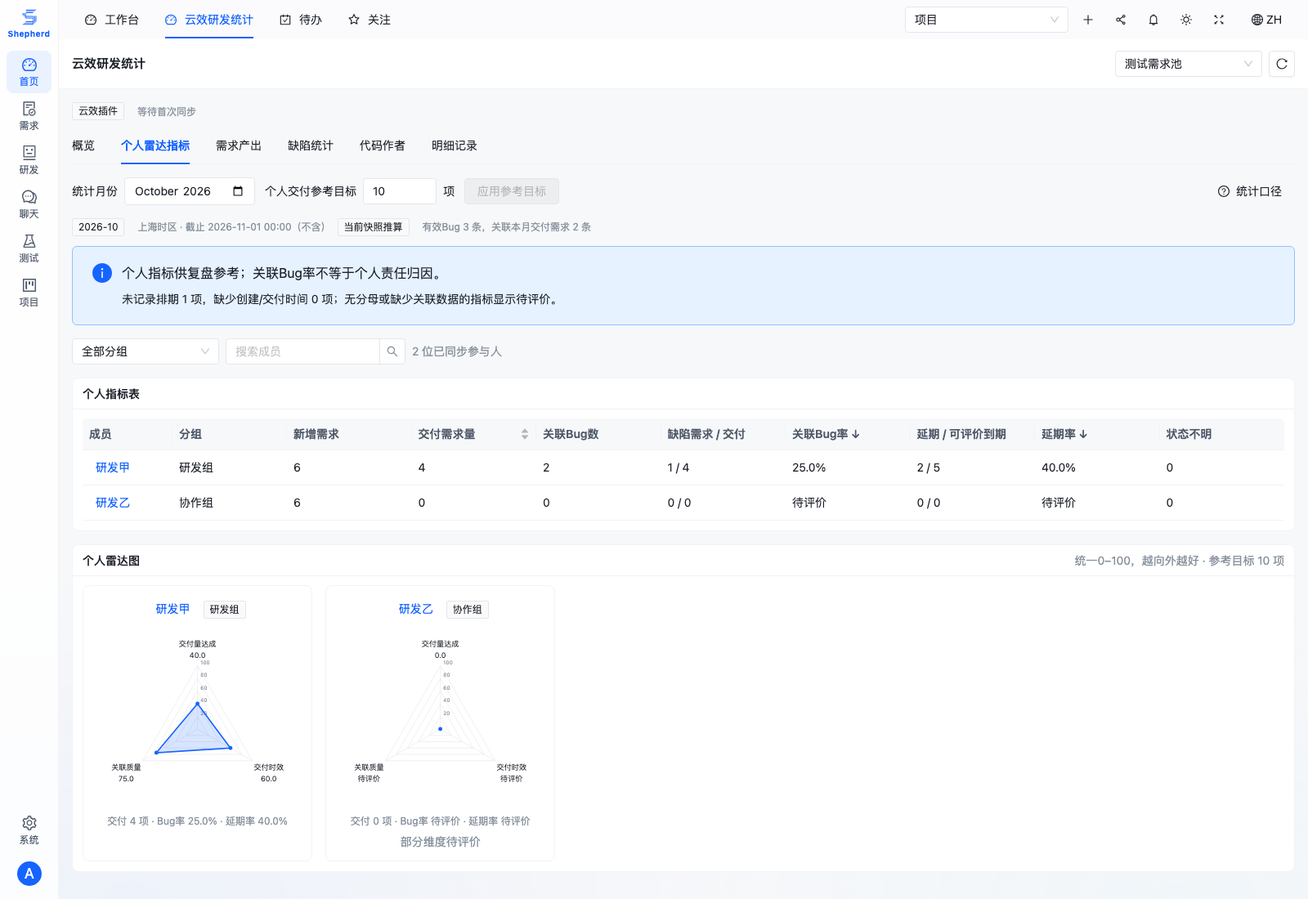
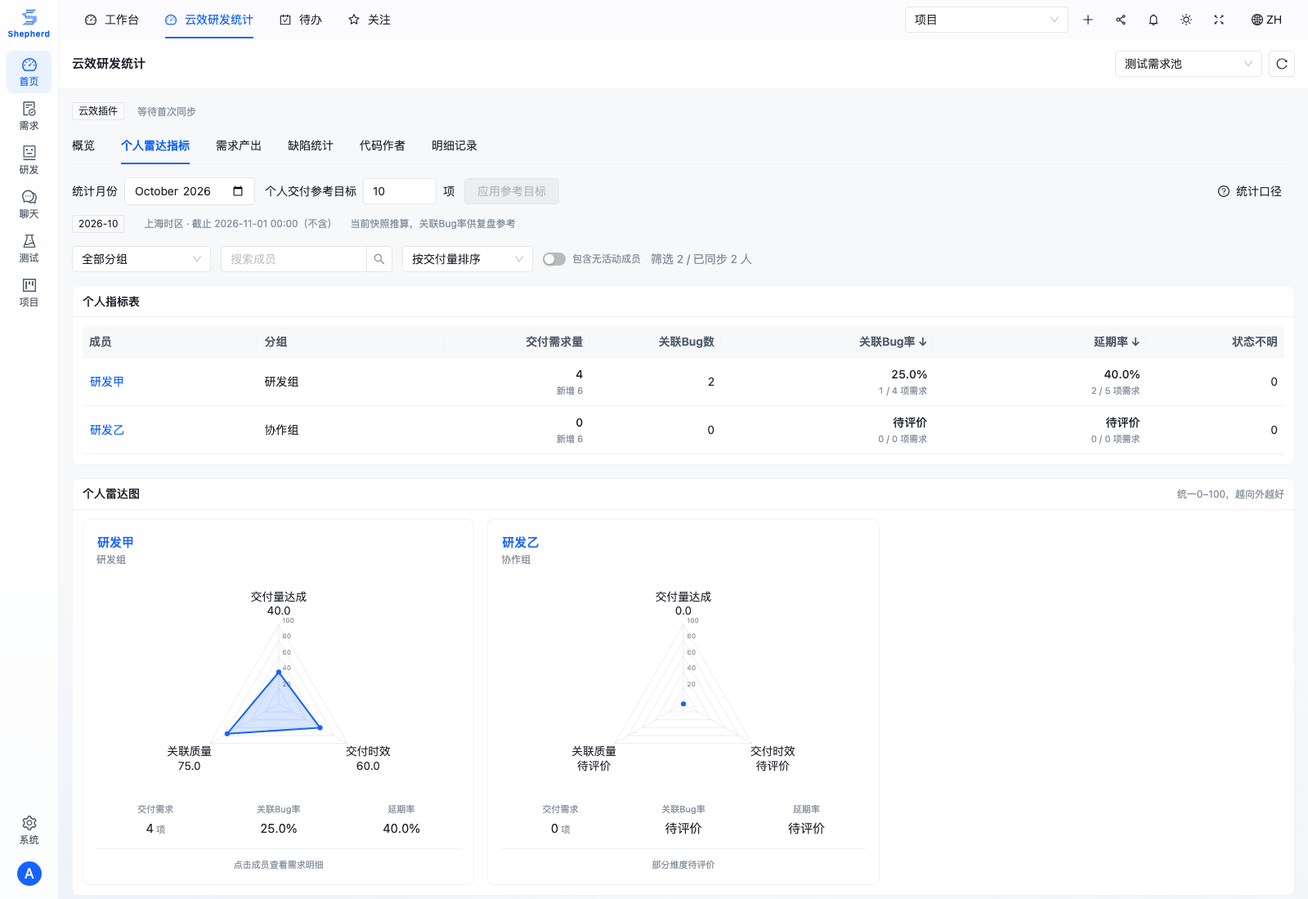
fix(yunxiao): validate member references and contain radar layouts

diff --git a/web/src/plugins/yunxiao/MemberMetrics.tsx b/web/src/plugins/yunxiao/MemberMetrics.tsx
@@ -1,5 +1,5 @@
 import { useEffect, useState } from 'react'
-import { Alert, Button, Card, Drawer, Empty, Input, InputNumber, Popover, Select, Space, Spin, Table, Tag, Typography } from 'antd'
+import { Alert, Button, Card, Drawer, Empty, Input, InputNumber, Popover, Select, Space, Spin, Table, Tag, Typography, Tooltip, Pagination, Switch } from 'antd'
 import { QuestionCircleOutlined } from '@ant-design/icons'
 import { useNavigate } from 'react-router-dom'
 import { ApiError } from '../../api'
@@ -30,17 +30,26 @@ function Radar({ member }: { member: MemberMetric }) {
   </svg>
 }
 const classes: Record<string,string> = { notDue:'不在本月到期范围',onTime:'按期交付',deliveredLate:'延期交付',overdueAtEnd:'月底未交付',unknown:'状态不明' }
+function MemberName({ name, onClick }: { name:string; onClick:() => void }) {
+  return <Tooltip title={name}><Button type="link" size="small" className="yx-member-name" aria-label={name} onClick={onClick}><span>{name}</span></Button></Tooltip>
+}
+function RateValue({ value, numerator, denominator, label }: { value:number | null; numerator:number; denominator:number; label:string }) {
+  return <Tooltip title={`${label}：${numerator} / ${denominator}；${value == null ? '缺少有效分母或关联数据，暂不评价' : '按需求去重'}`}>
+    <div className="yx-member-number"><strong>{percent(value)}</strong><small>{numerator} / {denominator} 项需求</small></div>
+  </Tooltip>
+}
 export default function MemberMetrics({ sourceId,revision }: { sourceId:string; revision:number }) {
   const navigate = useNavigate()
   const [month,setMonth] = useState(() => new URLSearchParams(window.location.search).get('month') || previousMonth())
   const [target,setTarget] = useState(10),[draftTarget,setDraftTarget] = useState<number | null>(10)
-  const [group,setGroup] = useState(''),[search,setSearch] = useState('')
+  const [group,setGroup] = useState(''),[search,setSearch] = useState(''),[sort,setSort] = useState('delivered')
+  const [includeInactive,setIncludeInactive] = useState(false)
   const [data,setData] = useState<MemberMetricsData | null>(null),[loading,setLoading] = useState(false),[error,setError] = useState('')
-  const [selected,setSelected] = useState<MemberMetric | null>(null),[radarPage,setRadarPage] = useState(1)
+  const [selected,setSelected] = useState<MemberMetric | null>(null),[memberPage,setMemberPage] = useState(1),[pageSize,setPageSize] = useState(6)
   useEffect(() => {
     if (!/^\d{4}-\d{2}$/.test(month)) return
     let live = true
-    setData(null);setError('');setLoading(true);setSelected(null);setRadarPage(1)
+    setData(null);setError('');setLoading(true);setSelected(null);setMemberPage(1)
     devopsApi.memberMetrics(sourceId,month,target).then(value => { if (live) setData(value) })
       .catch(e => { if (live) setError(e instanceof ApiError && e.status === 403 ? '需要项目、需求和缺陷的读取权限。' : String(e.message || e)) })
       .finally(() => { if (live) setLoading(false) })
@@ -49,56 +58,67 @@ export default function MemberMetrics({ sourceId,revision }: { sourceId:string; 
   const metrics = data?.metrics
   const groups = Array.from(new Set(metrics?.members.map(p => p.group) || [])).sort()
   const activeGroup = groups.includes(group) ? group : ''
-  const rows = (metrics?.members || []).filter(p => (!activeGroup || p.group === activeGroup) && p.name.toLocaleLowerCase().includes(search.toLocaleLowerCase()))
+  const rows = (metrics?.members || []).filter(p => (!activeGroup || p.group === activeGroup) && p.name.toLocaleLowerCase().includes(search.toLocaleLowerCase()) && (includeInactive || p.newRequirements+p.deliveredRequirements+p.dueRequirements > 0))
+    .sort((a,b) => (sort === 'delivered' ? b.deliveredRequirements-a.deliveredRequirements || b.newRequirements-a.newRequirements : 0) || a.name.localeCompare(b.name,'zh-CN'))
+  const currentPage = Math.min(memberPage,Math.max(1,Math.ceil(rows.length/pageSize)))
+  const pageRows = rows.slice((currentPage-1)*pageSize,currentPage*pageSize)
   const targetValid = draftTarget != null && Number.isFinite(draftTarget) && draftTarget > 0 && draftTarget <= 10000
-  return <section aria-label="个人月度雷达指标">
+  const pagination = (label:string) => rows.length > pageSize ? <nav className="yx-member-pagination" aria-label={label}><Pagination size="small" current={currentPage} pageSize={pageSize} total={rows.length} showSizeChanger locale={{ items_per_page:'人 / 页' }} pageSizeOptions={[6,12]} showTotal={total => `共 ${total} 人，表格与雷达图同步翻页`} onChange={(page,size) => { setMemberPage(size === pageSize ? page : 1);setPageSize(size) }} /></nav> : null
+  return <section aria-label="个人月度雷达指标" className="yx-member-page">
     <div className="yx-member-toolbar"><Space wrap size={12}>
       <label>统计月份 <Input aria-label="统计月份" type="month" value={month} style={{ width:160 }} onChange={e => { if (e.target.value) setMonth(e.target.value) }} /></label>
       <label>个人交付参考目标 <InputNumber aria-label="个人交付参考目标" value={draftTarget} min={0.1} max={10000} onChange={setDraftTarget} /> 项</label>
       <Button disabled={!targetValid || draftTarget === target} onClick={() => { if (targetValid) setTarget(draftTarget!) }}>应用参考目标</Button>
     </Space><Popover trigger="click" title="个人指标统计口径" content={<div className="yx-member-notes">
-      <p>需求量按本月已发布需求，归当前负责人及明确登记的开发、测试、协作等参与人；多人分别计一次，不能通过成员数求组总量。未确认角色的旁观者不计入。</p>
-      <p>关联Bug率=本月已交付需求中，本月存在有效关联Bug的需求数/本月交付需求数。按同一源的明确父需求或关联记录识别；取消、重复及误报等状态排除。关联表示参与需求的缺陷情况，不代表个人责任认定。</p>
+      <p>需求量按本月已发布需求，归当前负责人及明确登记的开发、测试、协作等参与人；仅识别带用户标识的人员类型字段，自由文本不作为成员。多人分别计一次，不能通过成员数求组总量。</p>
+      <p>关联Bug率=本月已交付需求中，本月存在有效关联Bug的需求数/本月交付需求数。按同一源的明确父需求或关联记录识别；取消、重复及误报等状态排除。参与需求的缺陷情况不代表个人责任认定。</p>
       <p>延期率=(延期交付+月底未交付)/(本月应交付-状态不明)。包含全部优先级，取最早排期日当天结束；无有效分母时待评价。本月未结束时以采集时点为截点，仅纳入已经到期的需求。</p>
-      <p>雷达三轴：交付量=min(已交付/参考目标,1)×100；关联质量=100-Bug率；交付时效=100-延期率。缺失维度只显示已知点，不填满多边形；参考目标仅调整展示尺度，不产生综合OKR分。</p>
-      <p>历史月份由当前快照推算，无法还原排期、负责人修改或重开；截点后变更的非发布状态与缺少状态时间的到期需求列为不明。分组使用已同步的明确映射，有冲突或未知时列为待归属。</p>
+      <p>雷达三轴：交付量=min(已交付/参考目标,1)×100；关联质量=100-Bug率；交付时效=100-延期率。缺失维度只显示已知点；参考目标仅调整展示尺度，不产生综合OKR分。</p>
+      <p>历史月份由当前快照推算，无法还原排期、负责人修改或重开；截点后变更的非发布状态与缺少状态时间的到期需求列为不明。分组冲突或未知时列为待归属；可开启“包含无活动成员”查看本月无记录的已同步参与人。</p>
+      {metrics && <p>有效Bug {metrics.newValidBugs} 条，其中关联本月交付需求 {metrics.linkedValidBugs} 条；未记录排期 {metrics.requirementsMissingDue} 项，缺少创建/交付时间 {metrics.requirementsMissingTime} 项。</p>}
     </div>}><Button type="text" icon={<QuestionCircleOutlined />}>统计口径</Button></Popover></div>
     {error && <Alert type="error" message="个人指标读取失败" description={error} showIcon />}
     <Spin spinning={loading}>
+      <div className="yx-member-results">
       {metrics && <>
-        <div className="yx-member-scope"><Tag>{metrics.month}</Tag><span>上海时区 · 截止 {metrics.endExclusive.replace('T',' ').slice(0,16)}（不含）</span><Tag>当前快照推算</Tag><span>有效Bug {metrics.newValidBugs} 条，关联本月交付需求 {metrics.linkedValidBugs} 条</span></div>
-        <Alert type="info" showIcon message="个人指标供复盘参考；关联Bug率不等于个人责任归因。" description={`未记录排期 ${metrics.requirementsMissingDue} 项，缺少创建/交付时间 ${metrics.requirementsMissingTime} 项；无分母或缺少关联数据的指标显示待评价。`} style={{ marginBottom:16 }} />
-        <Space wrap style={{ marginBottom:16 }}>
-          <Select aria-label="雷达组织分组" style={{ minWidth:180 }} value={activeGroup} onChange={v => { setGroup(v);setRadarPage(1) }} options={[{ value:'',label:'全部分组' },...groups.map(value => ({ value,label:value }))]} />
-          <Input.Search aria-label="筛选雷达成员" placeholder="搜索成员" allowClear style={{ width:220 }} onChange={e => { setSearch(e.target.value);setRadarPage(1) }} />
-          <Typography.Text type="secondary">{rows.length} 位已同步参与人</Typography.Text>
-        </Space>
-        <Card size="small" title="个人指标表" style={{ marginBottom:16 }}><Table<MemberMetric> size="small" rowKey="name" dataSource={rows} scroll={{ x:1150 }} pagination={{ pageSize:10,hideOnSinglePage:true }} columns={[
-          { title:'成员',dataIndex:'name',fixed:'left',width:110,render:(name:string,p) => <Button type="link" size="small" onClick={() => setSelected(p)}>{name}</Button> },
-          { title:'分组',dataIndex:'group',width:140 },{ title:'新增需求',dataIndex:'newRequirements' },
-          { title:'交付需求量',dataIndex:'deliveredRequirements',sorter:(a,b) => a.deliveredRequirements-b.deliveredRequirements },{ title:'关联Bug数',dataIndex:'linkedBugs' },
-          { title:'缺陷需求 / 交付',render:(_:unknown,p) => `${p.bugAffectedRequirements} / ${p.deliveredRequirements}` },{ title:'关联Bug率 ↓',dataIndex:'bugRate',render:percent },
-          { title:'延期 / 可评价到期',render:(_:unknown,p) => `${p.deliveredLate+p.overdueAtEnd} / ${p.dueRequirements-p.unknownDelivery}` },
-          { title:'延期率 ↓',dataIndex:'delayRate',render:percent },{ title:'状态不明',dataIndex:'unknownDelivery' },
-        ]} /></Card>
-        <Card size="small" title="个人雷达图" extra={<Typography.Text type="secondary">统一0–100，越向外越好 · 参考目标 {metrics.requirementTarget} 项</Typography.Text>}>
-          {!rows.length ? <Empty description="没有符合条件的已同步参与人" /> : <>
-            <div className="yx-member-radars">{rows.slice((radarPage-1)*12,radarPage*12).map(p => <article className="yx-member-radar-card" key={p.name} aria-label={`${p.name}指标卡`}>
-              <Button type="link" onClick={() => setSelected(p)}>{p.name}</Button><Tag>{p.group}</Tag><Radar member={p} />
-              <p>交付 {p.deliveredRequirements} 项 · Bug率 {percent(p.bugRate)} · 延期率 {percent(p.delayRate)}</p>
-              {p.radar.some(value => value == null) && <Typography.Text type="secondary">部分维度待评价</Typography.Text>}
-            </article>)}</div>
-            {rows.length > 12 && <Space className="yx-member-pagination"><Button disabled={radarPage === 1} onClick={() => setRadarPage(p => p-1)}>上一页</Button><span>{radarPage} / {Math.ceil(rows.length/12)}</span><Button disabled={radarPage*12 >= rows.length} onClick={() => setRadarPage(p => p+1)}>下一页</Button></Space>}
-          </>}
+        <div className="yx-member-scope"><Tag>{metrics.month}</Tag><span>上海时区 · 截止 {metrics.endExclusive.replace('T',' ').slice(0,16)}（不含）</span><span>当前快照推算，关联Bug率供复盘参考</span></div>
+        <div className="yx-member-filters">
+          <Select aria-label="雷达组织分组" style={{ width:170 }} value={activeGroup} onChange={v => { setGroup(v);setMemberPage(1) }} options={[{ value:'',label:'全部分组' },...groups.map(value => ({ value,label:value }))]} />
+          <Input.Search aria-label="筛选雷达成员" placeholder="搜索成员" allowClear style={{ width:210 }} onChange={e => { setSearch(e.target.value);setMemberPage(1) }} />
+          <Select aria-label="成员排序" style={{ width:160 }} value={sort} onChange={v => { setSort(v);setMemberPage(1) }} options={[{ value:'delivered',label:'按交付量排序' },{ value:'name',label:'按姓名排序' }]} />
+          <label className="yx-member-inactive"><Switch size="small" aria-label="包含无活动成员" checked={includeInactive} onChange={v => { setIncludeInactive(v);setMemberPage(1) }} />包含无活动成员</label>
+          <Typography.Text type="secondary">筛选 {rows.length} / 已同步 {metrics.members.length} 人</Typography.Text>
+        </div>
+        <Card size="small" title="个人指标表" className="yx-members-table">
+          <Table<MemberMetric> size="small" tableLayout="fixed" rowKey="name" dataSource={pageRows} scroll={{ x:960 }} pagination={false} columns={[
+            { title:'成员',dataIndex:'name',fixed:'left',width:140,ellipsis:true,render:(name:string,p) => <MemberName name={name} onClick={() => setSelected(p)} /> },
+            { title:'分组',dataIndex:'group',width:150,ellipsis:true },
+            { title:'交付需求量',dataIndex:'deliveredRequirements',width:115,align:'right',render:(v:number,p) => <div className="yx-member-number"><strong>{v.toLocaleString('zh-CN')}</strong><small>新增 {p.newRequirements.toLocaleString('zh-CN')}</small></div> },
+            { title:'关联Bug数',dataIndex:'linkedBugs',width:105,align:'right' },
+            { title:'关联Bug率 ↓',width:170,align:'right',render:(_:unknown,p) => <RateValue label="关联Bug率" value={p.bugRate} numerator={p.bugAffectedRequirements} denominator={p.deliveredRequirements} /> },
+            { title:'延期率 ↓',width:170,align:'right',render:(_:unknown,p) => <RateValue label="延期率" value={p.delayRate} numerator={p.deliveredLate+p.overdueAtEnd} denominator={p.dueRequirements-p.unknownDelivery} /> },
+            { title:'状态不明',dataIndex:'unknownDelivery',width:110,align:'right' },
+          ]} />
         </Card>
+        {pagination('成员统一分页')}
+        <Card size="small" title="个人雷达图" className="yx-members-charts" extra={<span className="yx-member-chart-guide">统一0–100，越向外越好</span>}>
+          {!pageRows.length ? <Empty description="没有符合条件的成员，可调整筛选条件" /> : <div className="yx-member-radars">{pageRows.map(p => <article className="yx-member-radar-card" key={p.name} aria-label={`${p.name}指标卡`}>
+            <div className="yx-member-card-heading"><MemberName name={p.name} onClick={() => setSelected(p)} /><Tooltip title={p.group}><span className="yx-member-card-group">{p.group}</span></Tooltip></div>
+            <Radar member={p} />
+            <dl className="yx-member-card-metrics"><div><dt>交付需求</dt><dd>{p.deliveredRequirements.toLocaleString('zh-CN')}<small> 项</small></dd></div><div><dt>关联Bug率</dt><dd>{percent(p.bugRate)}</dd></div><div><dt>延期率</dt><dd>{percent(p.delayRate)}</dd></div></dl>
+            <div className="yx-member-card-footer">{p.radar.some(value => value == null) ? '部分维度待评价' : '点击成员查看需求明细'}</div>
+          </article>)}</div>}
+        </Card>
+        {pagination('雷达图分页')}
       </>}
       {!metrics && !loading && !error && <Empty description="请选择统计月份" />}
+      </div>
     </Spin>
-    <Drawer open={!!selected} title={`${selected?.name || ''} · 月度需求明细`} width="min(1100px, 95vw)" onClose={() => setSelected(null)}>
-      <Table<MemberRequirementMetric> size="small" rowKey="externalId" dataSource={selected?.requirements || []} scroll={{ x:800 }} pagination={{ pageSize:15 }} columns={[
-        { title:'需求',render:(_:unknown,r) => <Button type="link" size="small" onClick={() => navigate(`/devops?${new URLSearchParams({ source:sourceId,reference:r.externalId })}`)}>{r.serial || r.externalId} {r.title}</Button> },
-        { title:'当前状态',dataIndex:'status' },{ title:'截止日期',dataIndex:'due',render:(v:string) => v || '未记录' },{ title:'本月交付',dataIndex:'delivered',render:(v:boolean) => v ? '是' : '否' },
-        { title:'交付分类',dataIndex:'deliveryClass',render:(v:string) => classes[v] || v },{ title:'本月有效关联Bug',dataIndex:'bugIds',render:(v:string[]) => v.length },
+    <Drawer open={!!selected} title={<Tooltip title={selected?.name}><span className="yx-member-drawer-title">{selected?.name || ''} · 月度需求明细</span></Tooltip>} width="min(1100px, 95vw)" onClose={() => setSelected(null)}>
+      <Table<MemberRequirementMetric> size="small" tableLayout="fixed" rowKey="externalId" dataSource={selected?.requirements || []} scroll={{ x:860 }} pagination={{ pageSize:15 }} columns={[
+        { title:'需求',width:330,ellipsis:true,render:(_:unknown,r) => <MemberName name={`${r.serial || r.externalId} ${r.title}`} onClick={() => navigate(`/devops?${new URLSearchParams({ source:sourceId,reference:r.externalId })}`)} /> },
+        { title:'当前状态',dataIndex:'status',width:100,ellipsis:true },{ title:'截止日期',dataIndex:'due',width:110,render:(v:string) => v || '未记录' },{ title:'本月交付',dataIndex:'delivered',width:90,render:(v:boolean) => v ? '是' : '否' },
+        { title:'交付分类',dataIndex:'deliveryClass',width:120,render:(v:string) => classes[v] || v },{ title:'本月关联Bug',dataIndex:'bugIds',width:110,align:'right',render:(v:string[]) => v.length },
       ]} />
     </Drawer>
   </section>

diff --git a/web/e2e/member-metrics.spec.ts b/web/e2e/member-metrics.spec.ts
@@ -32,8 +32,8 @@ test('monthly table and filled radars preserve raw rates, sample sizes and missi
   await page.goto('/devops?view=radar&month=2026-10')
   const panel=page.getByRole('region',{ name:'个人月度雷达指标' })
   await expect(panel.getByRole('columnheader',{ name:'关联Bug率 ↓',exact:true })).toBeVisible()
-  await expect(panel.getByRole('cell',{ name:'25.0%',exact:true })).toBeVisible()
-  await expect(panel.getByRole('cell',{ name:'1 / 4',exact:true })).toBeVisible()
+  await expect(panel.getByText('25.0%',{exact:true}).first()).toBeVisible()
+  await expect(panel.getByText('1 / 4 项需求',{exact:true})).toBeVisible()
   await expect(panel.getByRole('img',{ name:'研发甲个人雷达图' })).toBeVisible()
   await expect(panel.getByRole('img',{ name:'研发甲个人雷达图' }).locator('.yx-radar-value')).toHaveCount(1)
   await expect(panel.getByRole('img',{ name:'研发乙个人雷达图' }).locator('.yx-radar-value')).toHaveCount(0)
@@ -56,7 +56,7 @@ test('month, group, target and source controls do not retain old results',async 
   await panel.getByRole('button',{ name:'应用参考目标' }).click()
   await expect.poll(() => calls.at(-1)?.searchParams.get('requirementTarget')).toBe('20')
   await panel.getByLabel('雷达组织分组').first().click()
-  await page.getByTitle('协作组',{ exact:true }).click()
+  await page.locator('.ant-select-dropdown').getByTitle('协作组',{ exact:true }).click()
   await expect(panel.getByRole('img',{ name:'研发甲个人雷达图' })).toHaveCount(0)
   await expect(panel.getByRole('img',{ name:'研发乙个人雷达图' })).toBeVisible()
   await page.getByLabel('云效项目').first().click()
@@ -84,3 +84,51 @@ test('radars follow dark theme and fit a narrow viewport',async ({ page }) => {
   expect(await chart.locator('.yx-radar-value').evaluate(el => getComputedStyle(el).fill)).not.toBe('none')
   await chart.screenshot({ path:'/tmp/shepherd-member-radar-dark.png',animations:'disabled' })
 })
+
+for (const width of [1765,700,390]) {
+  test(`long member and group text stay contained at ${width}px; table and cards page together`,async ({ page }) => {
+    await fixture(page)
+    await page.setViewportSize({ width,height:1100 })
+    const longName='很长的合法成员显示名称'.repeat(15)
+    const longGroup='很长的分组名称'.repeat(12)
+    const members=Array.from({ length:14 },(_,i) => ({ ...alice,name:`${String(i).padStart(2,'0')}${longName}`,group:longGroup,requirements:[{ ...requirement,title:'需求标题'.repeat(80) }] }))
+    members.push({ ...bob,name:'无活动成员',group:longGroup,newRequirements:0 })
+    await page.route('**/member-metrics**',route => { if (!new URL(route.request().url()).pathname.endsWith('/member-metrics')) return route.fallback(); return route.fulfill({ json:{ source,metrics:{ month:'2026-10',endExclusive:'2026-11-01T00:00:00+08:00',requirementTarget:10,members,newValidBugs:2,linkedValidBugs:2,requirementsMissingDue:0,requirementsMissingTime:0 } } }) })
+    await page.goto('/devops?view=radar&month=2026-10')
+    const panel=page.getByRole('region',{ name:'个人月度雷达指标' })
+    const table=panel.locator('.yx-members-table')
+    await expect(table.locator('.ant-table-row')).toHaveCount(6)
+    await expect(panel.locator('.yx-member-radar-card')).toHaveCount(6)
+    await expect(panel.getByText('筛选 14 / 已同步 15 人')).toBeVisible()
+    // Data may legitimately have long names; visual truncation must not discard it.
+    const name=table.locator('.yx-member-name > span').first()
+    expect(await name.evaluate(el => el.scrollWidth>el.clientWidth)).toBe(true)
+    const bounds=await panel.evaluate(el => ({ content:el.getBoundingClientRect().right,viewport:window.innerWidth,document:document.documentElement.scrollWidth }))
+    expect(bounds.content).toBeLessThanOrEqual(width+1)
+    expect(bounds.document).toBeLessThanOrEqual(width+1)
+    for (const heading of await panel.locator('.yx-member-card-heading').all()) {
+      expect(await heading.evaluate(el => el.scrollWidth<=el.clientWidth+1)).toBe(true)
+    }
+    const tableNames=() => table.locator('.yx-member-name').allTextContents()
+    const cardNames=() => panel.locator('.yx-member-card-heading .yx-member-name').allTextContents()
+    expect(await tableNames()).toEqual(await cardNames())
+    await panel.getByRole('navigation',{ name:'成员统一分页' }).getByTitle('2',{exact:true}).click()
+    await expect(table.locator('.ant-table-row')).toHaveCount(6)
+    expect(await tableNames()).toEqual(await cardNames())
+    await panel.getByRole('switch',{ name:'包含无活动成员' }).click()
+    await expect(panel.getByText('筛选 15 / 已同步 15 人')).toBeVisible()
+    if (width===1765) {
+      const firstName=table.locator('.yx-member-name').first()
+      await firstName.hover()
+      await expect(page.getByRole('tooltip')).toContainText(longName)
+      await firstName.click()
+      const drawer=page.getByRole('dialog')
+      await expect(drawer).toBeVisible()
+      expect(await drawer.locator('.yx-member-name > span').first().evaluate(el => el.scrollWidth>el.clientWidth)).toBe(true)
+      await drawer.getByRole('button',{ name:'关闭',exact:true }).click()
+      await page.setViewportSize({ width,height:1900 })
+      await panel.getByText('个人指标表',{exact:true}).hover()
+      await page.screenshot({ path:'/tmp/shepherd-radar-ux-long.png',fullPage:true,animations:'disabled' })
+    }
+  })
+}

diff --git a/web/src/plugins/yunxiao/member-metrics.css b/web/src/plugins/yunxiao/member-metrics.css
@@ -1,16 +1,41 @@
-.yx-member-toolbar { display:flex; align-items:center; justify-content:space-between; flex-wrap:wrap; gap:12px; margin-bottom:16px; }
+.yx-member-page,.yx-member-page .ant-spin-nested-loading,.yx-member-page .ant-spin-container { min-width:0; max-width:100%; }
+.yx-member-results { min-height:160px; }
+.yx-member-toolbar { display:flex; align-items:center; justify-content:space-between; flex-wrap:wrap; gap:12px; margin-bottom:12px; }
 .yx-member-toolbar label { display:inline-flex; align-items:center; gap:8px; }
-.yx-member-scope { display:flex; align-items:center; flex-wrap:wrap; gap:8px; margin-bottom:12px; font-size:12px; color:var(--text-3); }
-.yx-member-notes { max-width:580px; font-size:13px; }
-.yx-member-radars { display:grid; grid-template-columns:repeat(auto-fill,minmax(280px,1fr)); gap:16px; }
-.yx-member-radar-card { min-width:0; padding:12px; text-align:center; border:1px solid var(--border-soft); border-radius:8px; }
-.yx-member-radar { display:block; width:100%; max-width:360px; margin:8px auto; overflow:visible; }
+.yx-member-scope { display:flex; align-items:center; flex-wrap:wrap; gap:8px 16px; margin-bottom:16px; font-size:12px; color:var(--text-3); overflow-wrap:anywhere; }
+.yx-member-notes { max-width:min(580px,80vw); font-size:13px; overflow-wrap:anywhere; }
+.yx-member-filters { display:flex; align-items:center; flex-wrap:wrap; gap:12px; margin-bottom:16px; }
+.yx-member-inactive { display:inline-flex; align-items:center; gap:8px; font-size:12px; color:var(--text-3); }
+.yx-members-table { margin-bottom:16px; min-width:0; }
+.yx-members-table .ant-table-wrapper { max-width:100%; min-width:0; }
+.yx-members-table .ant-table-thead th { white-space:nowrap; }
+.yx-member-number { font-variant-numeric:tabular-nums; white-space:nowrap; line-height:1.6; }
+.yx-member-number strong { display:block; font-size:14px; font-weight:500; }
+.yx-member-number small { display:block; font-size:11px; color:var(--text-3); }
+.yx-member-name.ant-btn { display:block; max-width:100%; width:100%; min-width:0; padding-inline:0; text-align:left; }
+.yx-member-name.ant-btn > span { display:block; min-width:0; max-width:100%; overflow:hidden; text-overflow:ellipsis; white-space:nowrap; }
+.yx-member-name.ant-btn:focus-visible { outline:2px solid var(--brand); outline-offset:2px; }
+.yx-member-chart-guide { color:var(--text-3); font-size:12px; }
+.yx-member-radars { display:grid; grid-template-columns:repeat(3,minmax(0,1fr)); gap:16px; }
+.yx-member-radar-card { min-width:0; overflow:hidden; padding:16px; border:1px solid var(--border-soft); border-radius:8px; }
+.yx-member-card-heading { min-width:0; text-align:left; }
+.yx-member-card-heading .yx-member-name { font-size:15px; font-weight:500; }
+.yx-member-card-group { display:block; overflow:hidden; text-overflow:ellipsis; white-space:nowrap; max-width:100%; color:var(--text-3); font-size:12px; }
+.yx-member-radar { display:block; width:100%; max-width:320px; margin:12px auto 0; }
 .yx-radar-grid polygon { fill:none; stroke:var(--border); stroke-width:.65; }
 .yx-radar-grid text { fill:var(--text-3); font-size:7px; }
 .yx-radar-axis { stroke:var(--border); stroke-width:.65; }
 .yx-radar-value { fill:var(--brand); fill-opacity:.17; stroke:var(--brand); stroke-width:1.8; }
 .yx-radar-point { fill:var(--brand); }
-.yx-radar-label { fill:var(--text); font-size:10px; }
-.yx-member-radar-card p { font-size:12px; margin:4px 0; color:var(--text-3); }
-.yx-member-pagination { display:flex; justify-content:center; margin-top:16px; }
-@media(max-width:600px) { .yx-member-radars { grid-template-columns:1fr; } .yx-member-toolbar label { flex-wrap:wrap; } }
+.yx-radar-label { fill:var(--text); font-size:12px; }
+.yx-member-card-metrics { display:grid; grid-template-columns:repeat(3,minmax(0,1fr)); gap:6px; margin:0; text-align:center; }
+.yx-member-card-metrics > div { min-width:0; }
+.yx-member-card-metrics dt { color:var(--text-3); font-size:11px; white-space:nowrap; }
+.yx-member-card-metrics dd { margin:4px 0 0; font-size:15px; font-variant-numeric:tabular-nums; white-space:nowrap; }
+.yx-member-card-metrics dd small { font-size:11px; color:var(--text-3); }
+.yx-member-card-footer { margin-top:12px; padding-top:10px; border-top:1px solid var(--border-soft); font-size:11px; color:var(--text-3); text-align:center; }
+.yx-member-pagination { display:flex; justify-content:flex-end; margin:16px 0; }
+.yx-member-pagination .ant-pagination { display:flex; flex-wrap:wrap; gap:4px; }
+.yx-member-drawer-title { display:block; min-width:0; overflow:hidden; text-overflow:ellipsis; white-space:nowrap; }
+@media(max-width:1200px) { .yx-member-radars { grid-template-columns:repeat(2,minmax(0,1fr)); } }
+@media(max-width:700px) { .yx-member-radars { grid-template-columns:1fr; } .yx-member-toolbar label { flex-wrap:wrap; } .yx-member-pagination { justify-content:center; } .yx-member-pagination .ant-pagination-total-text { flex-basis:100%; text-align:center; margin:0; } }

diff --git a/plugins/yunxiao/backend/tests/member_metrics.rs b/plugins/yunxiao/backend/tests/member_metrics.rs
@@ -8,7 +8,7 @@ fn req(id: &str, status: &str, changed: &str, due: &str) -> Record {
     record(
         id,
         "requirement",
-        json!({"serial":format!("REQ-{id}"),"title":"shared requirement","status":status,"createdAt":"2026-10-01T00:00:00+08:00","statusChangedAt":changed,"due":due,"owner":"甲","group":"研发组","customFieldValues":[{"fieldName":"开发者","values":[{"displayValue":"乙"}]}]}),
+        json!({"serial":format!("REQ-{id}"),"title":"shared requirement","status":status,"createdAt":"2026-10-01T00:00:00+08:00","statusChangedAt":changed,"due":due,"owner":"甲","group":"研发组","customFieldValues":[{"fieldName":"开发者","fieldFormat":"multiUser","values":[{"identifier":"user-b","displayValue":"乙"}]}]}),
     )
 }
 fn query() -> MemberMetricsQuery {
@@ -135,4 +135,26 @@ fn current_month_only_counts_deadlines_that_have_passed() {
     let data = build_member_metrics(&records, &query(), clock).expect("metrics");
     assert_eq!(data.members[0].due_requirements, 1);
     assert_eq!(data.members[0].delay_rate, Some(100.0));
+}
+
+#[test]
+fn free_text_roles_are_never_promoted_to_people() {
+    let mut requirement = req("typed", "已发布", "2026-10-10T00:00:00+08:00", "2026-10-11");
+    requirement.data["customFieldValues"] = json!([
+        {"fieldName":"需求提出人","fieldFormat":"text","values":[{"identifier":"cxl","displayValue":"客户名称与很长的需求说明"}]},
+        {"fieldName":"开发者","fieldFormat":"text","values":[{"identifier":"text-is-not-id","displayValue":"看似姓名"}]},
+        {"fieldName":"协作人","values":[{"identifier":"unknown-type","displayValue":"缺少类型"}]},
+        {"fieldName":"测试人员","fieldFormat":"user","values":[{"identifier":"tester-id","displayValue":"测试甲"}]},
+        {"fieldName":"开发者","fieldFormat":"multiUser","values":[{"identifier":"dev-id","displayValue":"开发乙"},{"displayValue":"缺少标识"},{"identifier":"AK-rule","displayValue":"自动规则"}]}
+    ]);
+    let data = build_member_metrics(&[requirement], &query(), now()).expect("metrics");
+    let names: Vec<_> = data.members.iter().map(|p| p.name.as_str()).collect();
+    assert_eq!(names.len(), 3);
+    for name in ["甲", "测试甲", "开发乙"] {
+        assert!(names.contains(&name));
+    }
+    for name in ["客户名称与很长的需求说明", "看似姓名", "缺少类型", "缺少标识", "自动规则"]
+    {
+        assert!(!names.contains(&name));
+    }
 }

diff --git a/plugins/yunxiao/backend/src/domain/member_metrics.rs b/plugins/yunxiao/backend/src/domain/member_metrics.rs
@@ -46,13 +46,19 @@ fn members(data: &Value) -> BTreeSet<String> {
     if let Some(owner) = human(text(data, "owner")) {
         names.insert(owner);
     }
-    // Only explicitly registered roles; generic watchers are not delivery participants.
+    // A role label alone is not proof of identity: text fields may contain customer
+    // names or entire requirement descriptions. Only typed user references qualify.
     if let Some(fields) = data.get("customFieldValues").and_then(Value::as_array) {
         for field in fields {
             if ["开发者", "测试人员", "协同人", "协作人", "需求提出人"]
                 .contains(&text(field, "fieldName"))
+                && matches!(text(field, "fieldFormat"), "user" | "multiUser")
             {
                 for value in field.get("values").and_then(Value::as_array).into_iter().flatten() {
+                    let identifier = text(value, "identifier");
+                    if identifier.is_empty() || identifier.starts_with("AK-") {
+                        continue;
+                    }
                     if let Some(name) = human(text(value, "displayValue")) {
                         names.insert(name);
                     }

diff --git a/plugins/yunxiao/backend/tests/pg_sync.rs b/plugins/yunxiao/backend/tests/pg_sync.rs
@@ -373,7 +373,7 @@ async fn monthly_member_metrics_use_one_source_and_projected_snapshot() {
         let mut records = vec![Record {
             kind: "requirement".into(),
             external_id: "shared-id".into(),
-            data: json!({"serial":"REQ-42","status":"已发布","createdAt":"2026-10-01T00:00:00+08:00","statusChangedAt":"2026-10-15T23:59:59+08:00","due":"2026-10-15","owner":"owner","group":"test-group","raw":{"description":"secret raw text","customFieldValues":[{"fieldName":"开发者","values":[{"displayValue":"developer"}]}]}}),
+            data: json!({"serial":"REQ-42","status":"已发布","createdAt":"2026-10-01T00:00:00+08:00","statusChangedAt":"2026-10-15T23:59:59+08:00","due":"2026-10-15","owner":"owner","group":"test-group","raw":{"description":"secret raw text","customFieldValues":[{"fieldName":"开发者","fieldFormat":"multiUser","values":[{"identifier":"developer-id","displayValue":"developer"}]}]}}),
         }];
         if n == 0 {
             records.push(Record {kind:"bug".into(),external_id:"bug".into(),data:json!({"createdAt":"2026-10-10T00:00:00+08:00","status":"已解决","parentId":"shared-id","requirementIds":["REQ-42"]})});
